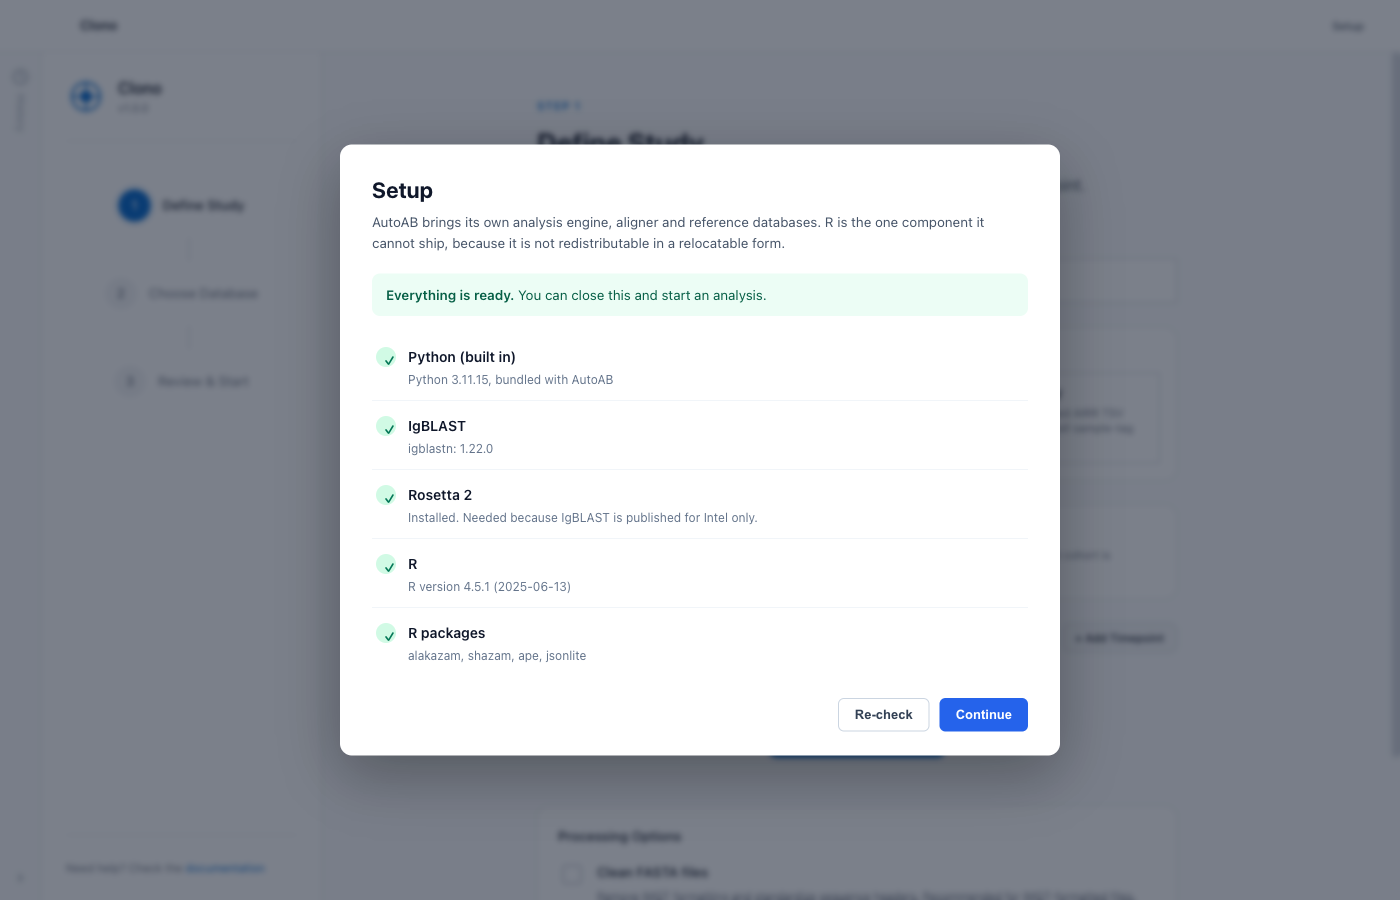
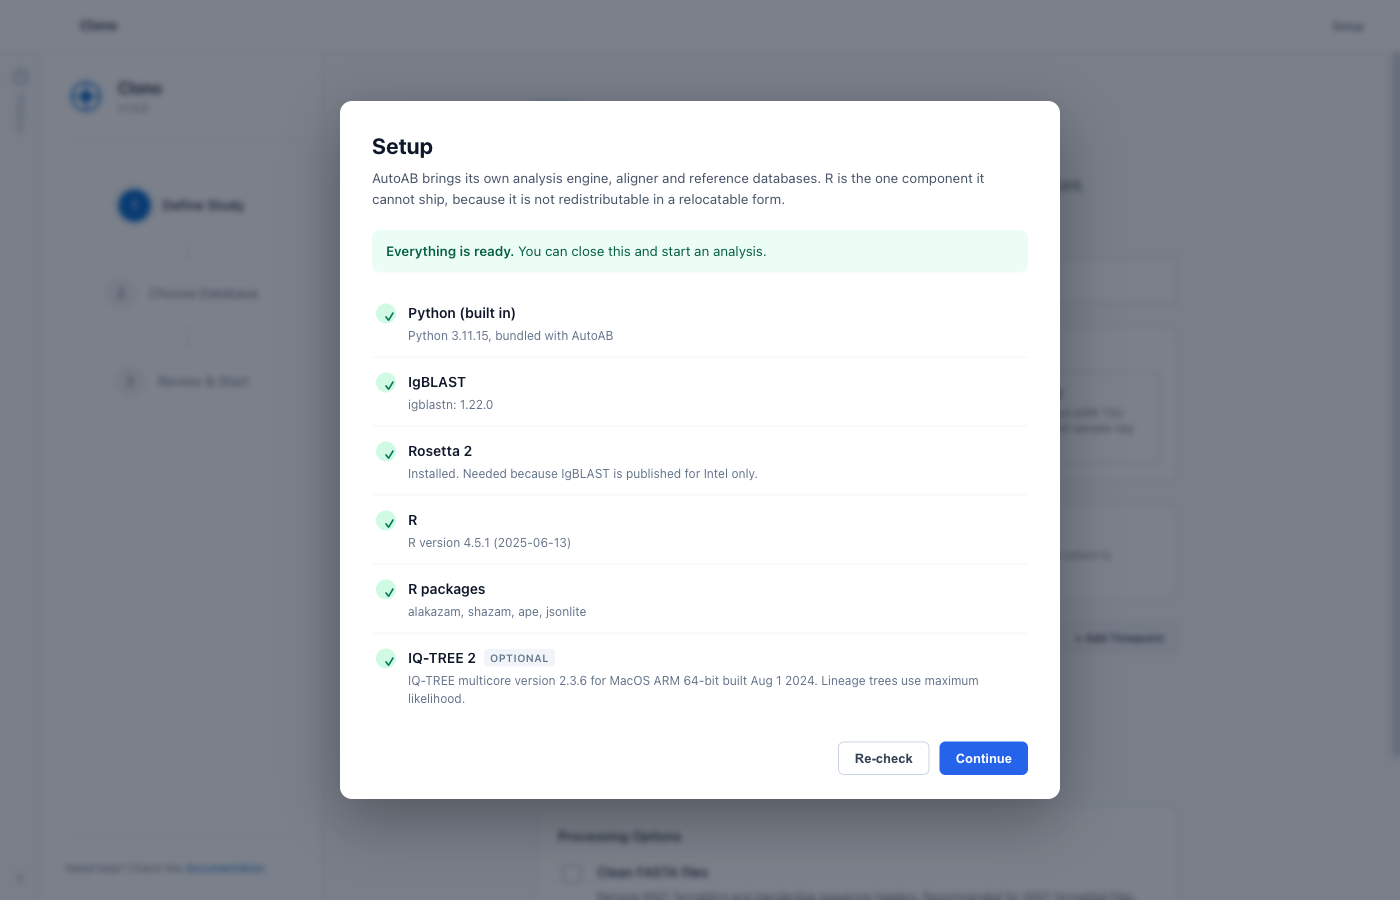
Do not blame a missing IQ-TREE for trees that were meant to be neighbour-joining
The tree-method logging added earlier attached "(neighbour-joining: IQ-TREE 2 was
not available)" to any run whose R script reported NJ trees. Two different causes
produce those: IQ-TREE genuinely absent, and a clone left with fewer than four
unique sequences after --collapse, where build-trees-iqtree.R uses NJ by design.

A two-timepoint run on real INCOV data hit the second case with IQ-TREE 2 present
and installed, and the log told the user it was missing. Only the script's own
"IQ-TREE2 not found" warning establishes absence, so that is what the note is
keyed on now, and the per-method breakdown is reported as the script states it.

Changed region(s): [[0.2457, 0.0933, 0.7679, 0.9022], [0.4607, 0.4978, 0.4914, 0.5289], [0.3993, 0.4978, 0.43, 0.5289]]

diff --git a/backend/pipeline_runner.py b/backend/pipeline_runner.py
@@ -1744,25 +1744,32 @@ class PipelineRunner:
         tree_files = glob.glob(os.path.join(trees_out_dir, '*.newick'))
 
         # Which method actually produced them. IQ-TREE 2 is optional: without it
-        # the R script silently falls back to neighbour-joining, which is a
-        # different inference method, not a lesser version of the same one. The
-        # script reports the split and this used to discard it, so a run gave no
-        # way to tell maximum-likelihood trees from NJ trees afterwards.
-        method_note = ''
+        # the R script falls back to neighbour-joining, a different inference
+        # method rather than a lesser version of the same one. The script reports
+        # the split and this used to discard it, so a run gave no way to tell
+        # maximum-likelihood trees from NJ trees afterwards.
+        #
+        # Two distinct reasons produce NJ trees and they must not be conflated:
+        # IQ-TREE being absent, and a clone having fewer than four unique
+        # sequences after collapsing, where the script uses NJ by design. Only
+        # the script's own "not found" warning establishes the former.
+        iqtree_missing = False
         for line in (result.stdout or '').splitlines():
             stripped = line.strip()
             if stripped.startswith(('IQ-TREE2', 'Neighbor-Joining')):
                 self.emit.log("info", f"[{label}] {stripped}")
-                if stripped.startswith('Neighbor-Joining'):
-                    method_note = ' (neighbour-joining: IQ-TREE 2 was not available)'
             elif stripped.startswith('WARNING: IQ-TREE2 not found'):
-                self.emit.log(
-                    "warn",
-                    f"[{label}] IQ-TREE 2 is not installed, so trees are built by neighbour-joining "
-                    "instead of maximum likelihood."
-                )
+                iqtree_missing = True
 
-        self.emit.log("info", f"[{label}] Built {len(tree_files)} trees{method_note}")
+        if iqtree_missing:
+            self.emit.log(
+                "warn",
+                f"[{label}] IQ-TREE 2 is not installed, so every tree was built by "
+                "neighbour-joining rather than maximum likelihood."
+            )
+
+        note = ' (IQ-TREE 2 not installed)' if iqtree_missing else ''
+        self.emit.log("info", f"[{label}] Built {len(tree_files)} trees{note}")
         return top_clones
     
     def build_trees(self) -> bool:
